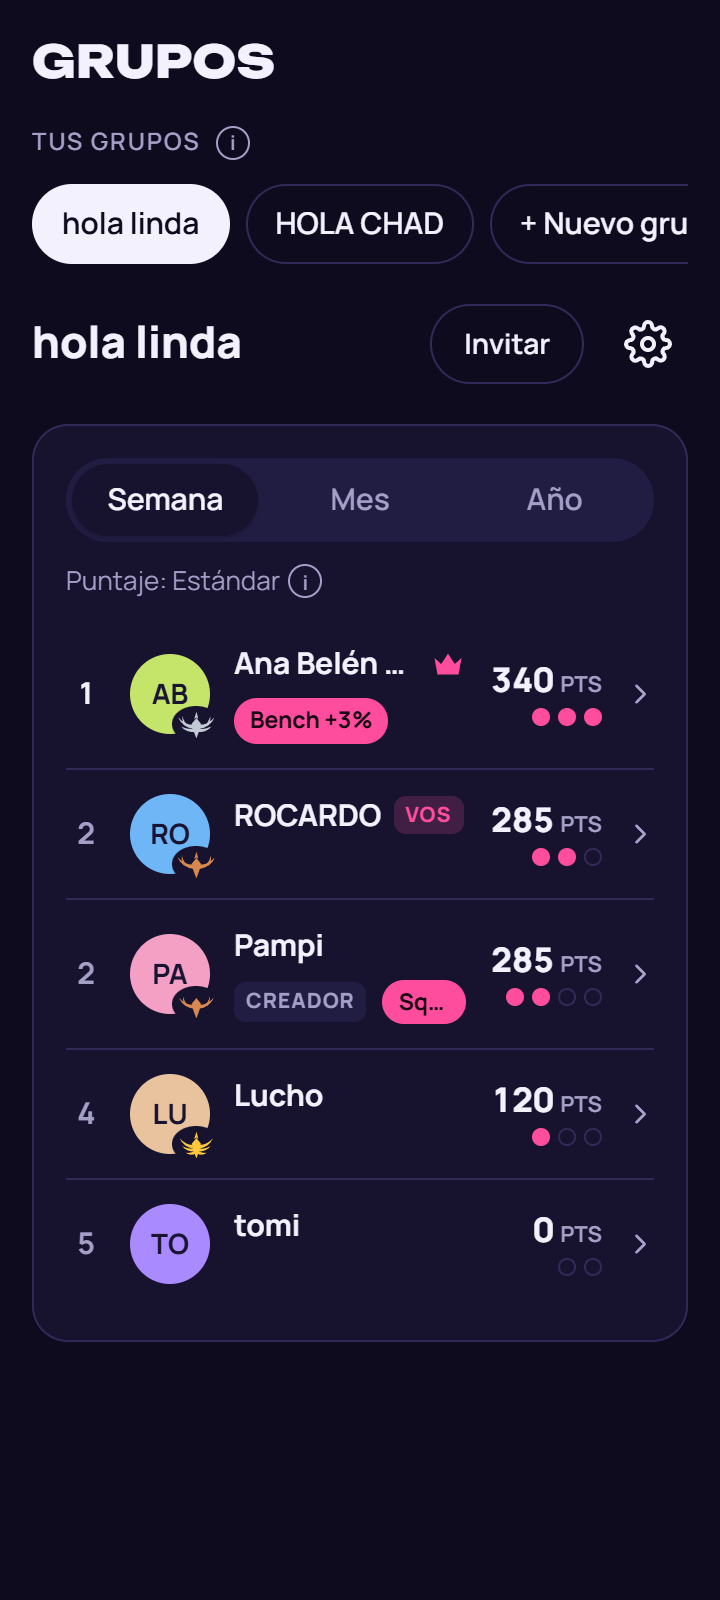
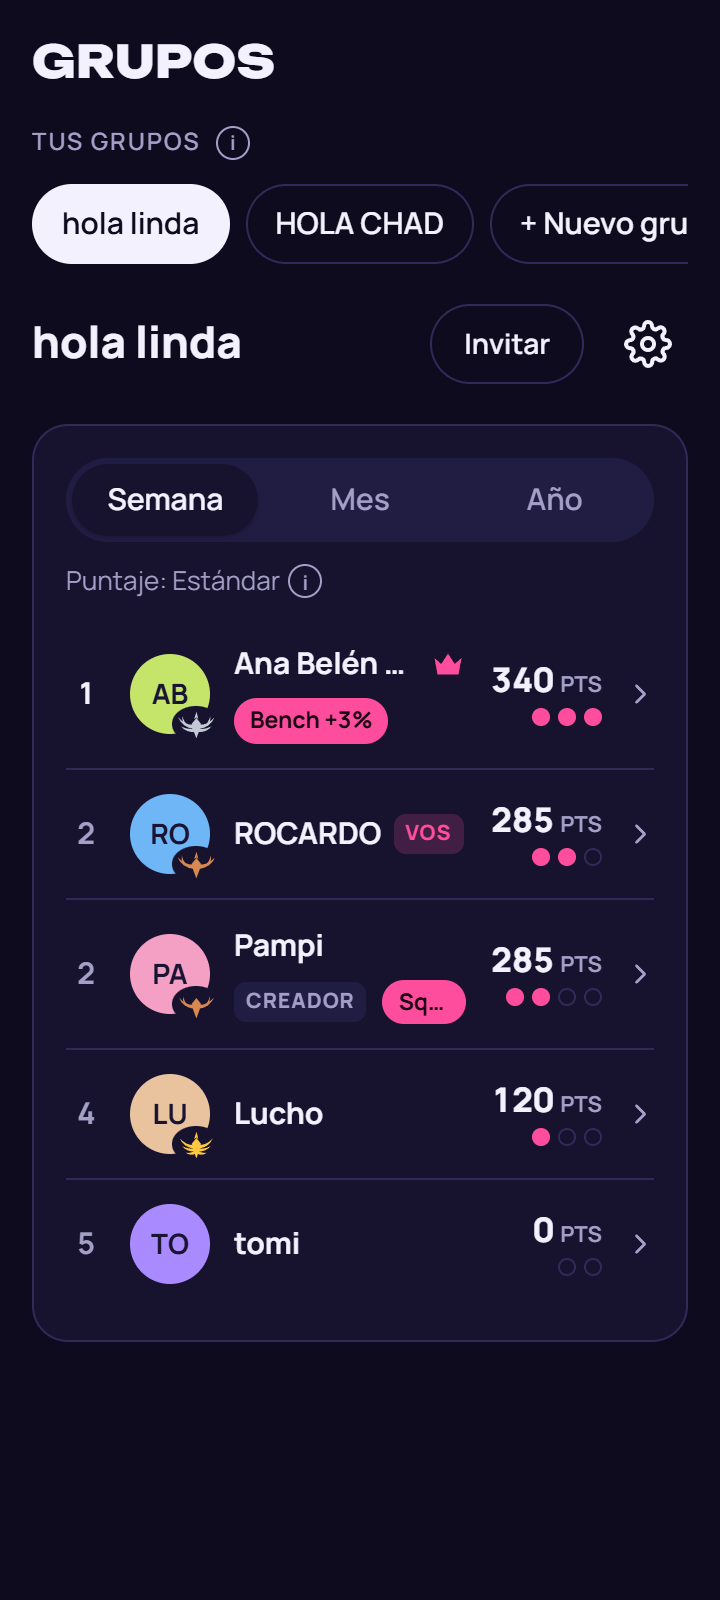
Board: centre the name when a row has no second line

Changed region(s): [[0.3056, 0.5, 0.6417, 0.5312], [0.3056, 0.6562, 0.4583, 0.7188], [0.3056, 0.75, 0.4278, 0.7812]]

diff --git a/app/src/Boards.tsx b/app/src/Boards.tsx
@@ -63,7 +63,7 @@ function BoardRowView({ row, nameOf, onOpen }: { row: BoardRow; nameOf: (exercis
   // The records come newest first; the row shows the latest one.
   const record = row.records[0];
   return (
-    <li className="board-row" onClick={row.former ? undefined : onOpen} style={{ cursor: row.former ? 'default' : 'pointer' }}>
+    <li className={`board-row${row.owner || record ? '' : ' no-meta'}`} onClick={row.former ? undefined : onOpen} style={{ cursor: row.former ? 'default' : 'pointer' }}>
       <span className="board-pos">{row.position}</span>
       <span className="avatar" style={{ '--c': row.avatar_color } as CSSProperties} aria-hidden="true">
         {initials(row.display_name)}

diff --git a/app/src/styles.css b/app/src/styles.css
@@ -615,6 +615,9 @@ Position, avatar, points and › share the row's vertical centre. */
   color: var(--fg);
   font-weight: 700;
 }
+.board-row.no-meta .board-name-line {
+  grid-row: 1 / 3;
+}
 .board-name {
   min-width: 0;
   overflow: hidden;
